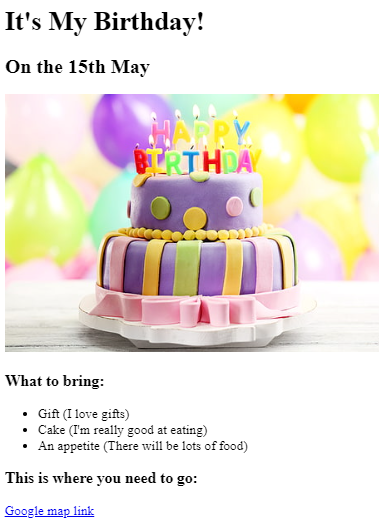
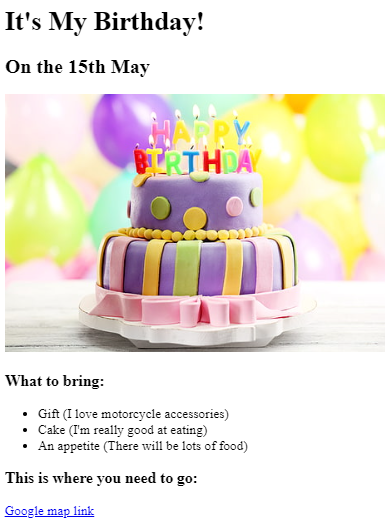
Add files via upload

diff --git a/public/movie-ranking.html b/public/movie-ranking.html
@@ -5,15 +5,19 @@
 <hr />
 
 <h3>The Matrix (1999)</h3>
-<p>This is my favourite sci-fi movie as it blows your mind and forces yoy to rethink out of the box.
-    Once I was conveinced that someone outside of this world is controling us.</p>
+<h4><strong>Gener: Sci-Fi, Action</strong></h4>
+<p>This is my favorite sci-fi movie because it truly blows my mind and forces me to think outside the box. At one point,
+    I was even convinced that someone beyond this world might be controlling us!</p>
 
 <h3>Chhaava (2025)</h3>
-<p>"Chhaava" (2025) is a grand and ambitious historical drama that brings to life the story of Chhatrapati Sambhaji
-    Maharaj, a fierce warrior and the son of the legendary Chhatrapati Shivaji Maharaj. This film is a visual spectacle,
-    a powerful tribute to a courageous leader, and a captivating exploration of a pivotal period in Indian history.</p>
+<h4><strong>Gener: History, Action, Drama</strong></h4>
+<p>Chhaava (2025) is a grand historical drama that vividly portrays the life of Chhatrapati Sambhaji Maharaj, the
+    fearless warrior and son of the legendary Chhatrapati Shivaji Maharaj. With stunning visuals and a gripping
+    narrative, the film pays tribute to his bravery and leadership. It offers an immersive journey into a crucial
+    chapter of Indian history, bringing to life the struggles and triumphs of a remarkable ruler.</p>
 
 <h3>Shaadi Mein Zaroor Aana (2017)</h3>
+<h4><strong>Gener: Romance, Comedy, Drama</strong></h4>
 <p>This is a romantic drama film about a girl and a boy who are brought together by a marriage proposal and fall in love
     with each other but on the night of their marriage, destiny takes the two of them in two different directions. The
     movie is a perfect Bollywood film with love songs, romantic U-turns, 2 warring families and a an expected ending

diff --git a/index.html b/index.html
@@ -24,14 +24,14 @@ https://developer.mozilla.org/en-US/docs/Web/HTML/Element/img#attr-height -->
 </head>
 
 <body>
-    <h1>Shantanu Rastogi Portfolio</h1>
-    <h2>I'm a web developer</h2>
+    <h1>Shantanu Rastogi <em>(pseudoCodrr)</em> Portfolio</h1>
+    <h2>I'm a passionate and aspiring web developer on a journey to master full-stack development.</h2>
     <hr>
     <h3> <a href="./public/movie-ranking.html">Movie Ranking Project</a></h3>
-    <img src="./assets/images/movie-ranking.png" alt="movie ranking project preview" height="200">
+    <img src="./assets/images/movie-ranking.png" alt="movie ranking project preview" height="300">
     <br><br>
     <h3><a href="./public/birthday-invite.html">Birthday Invite Project</a></h3>
-    <img src="./assets/images/birthday-invite.png" alt="birthday-invite project preview" height="200">
+    <img src="./assets/images/birthday-invite.png" alt="birthday-invite project preview" height="300">
     <hr>
     <a href="./public/about.html">About Me</a>
     <a href="./public/contact.html">Contact Me</a>

diff --git a/public/about.html b/public/about.html
@@ -1,8 +1,10 @@
 <h1>About Me</h1>
-<p>Hello! I'm Shantanu Rastogi (pseudoCodrr), a passionate and aspiring web developer on a journey to master full-stack
+<p>Hello! I'm Shantanu Rastogi <em>(github: pseudoCodrr)</em>, a passionate and aspiring web developer on a journey to
+  master
+  full-stack
   development.
   My
-  fascination with web technologies started with simple HTML and CSS projects, and I’ve been continuously expanding my
+  fascination with web technologies started with simple HTML projects, and I’ve been continuously expanding my
   skill set ever since.</p>
 
 <p>Currently, I’m enrolled in <em>The Complete Full-Stack Web Development Bootcamp</em> by Dr. Angela Yu, where I’m

diff --git a/public/contact.html b/public/contact.html
@@ -1,7 +1,7 @@
 <h1>Contact Me</h1>
-<p>Tel: +123456789</p>
-<p>Email: shantanu.rastogi94@gmail.com</p>
-<p>Address:</p>
+<p><strong>Tel:</strong> +91 **1****3**</p>
+<p><strong>Email:</strong> shantanu.rastogi94@gmail.com</p>
+<p><strong>Address:</strong></p>
 <p>
   Lucknow<br />
   Uttar Pradesh<br />

diff --git a/public/birthday-invite.html b/public/birthday-invite.html
@@ -8,7 +8,7 @@
 `
 <h3>What to bring:</h3>
 <ul>
-  <li>Gift (I love gifts)</li>
+  <li>Gift (I love motorcycle accessories)</li>
   <li>Cake (I'm really good at eating)</li>
   <li>An appetite (There will be lots of food)</li>
 </ul>
